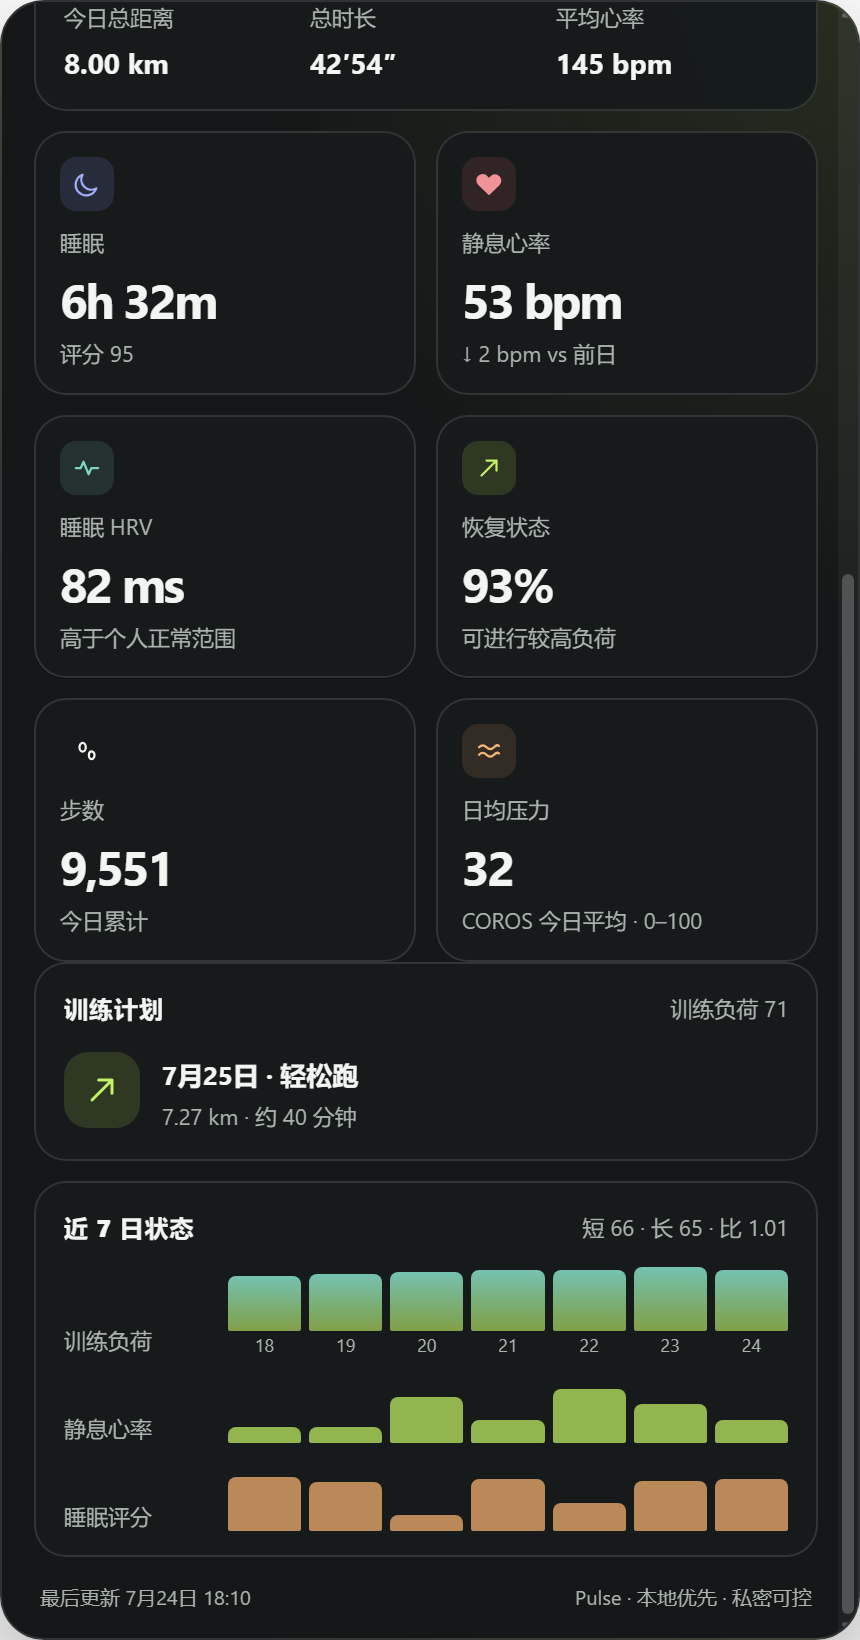
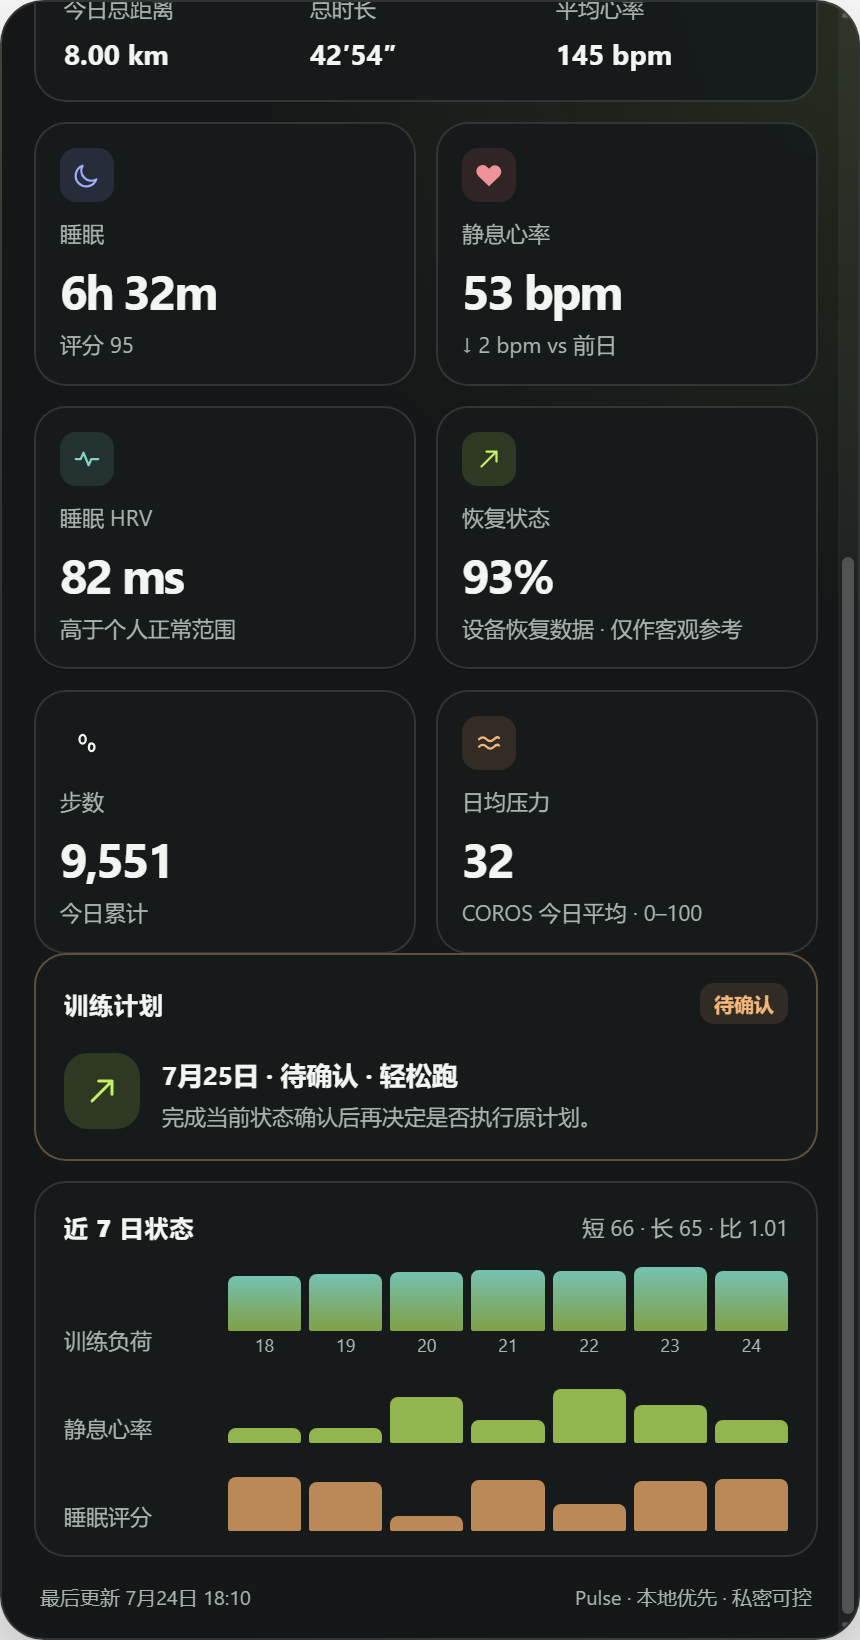
docs: explain readiness safety behavior

diff --git a/docs/DEVELOPMENT_STATUS.md b/docs/DEVELOPMENT_STATUS.md
@@ -1,8 +1,8 @@
 # Pulse 研发进度
 
-更新时间：2026-08-09
+更新时间：2026-08-10
 
-当前公开版本：桌面端与 Codex 插件 v0.5.5 Beta；当前源码：v0.5.6 候选，按堆叠 Draft PR 审查，尚未合并或发布
+当前公开版本：桌面端与 Codex 插件 v0.5.5 Beta；当前源码：v0.5.6 候选。PR A“训练安全呈现”已在 `codex/pr-a-training-safety` 实现并完成本地验证，尚未合并或发布
 
 ## 当前目标
 
@@ -16,10 +16,10 @@
 | 数据基础 | 标准化快照、`DataSourceAdapter`、连接测试、超时、响应大小限制、同源缓存与离线回退已完成；首次同步前不会显示 Demo 数字。 |
 | Codex 交接 | Electron 在本机启动 Handoff；`pulse-dashboard` 插件发布完整快照后，桌面窗口会立即自动读取。 |
 | 数据源 | 可切换演示数据、Codex + COROS MCP 和自定义 HTTP Bridge。 |
-| 数据质量 | 睡眠、心率、HRV、日均压力、步数、恢复等至少两项健康信号，以及有效洞察、活动正时长、UTF-8、时间戳/日期和集合上限，成为覆盖旧快照前的硬门槛。客观数据可在主观信息缺失时以 `data_insufficient` 展示，但不得给训练强度；疼痛、胸部症状或头晕触发 `stop_refer`。 |
+| 数据质量 | 睡眠、心率、HRV、日均压力、步数、恢复等至少两项健康信号，以及有效洞察、活动正时长、UTF-8、时间戳/日期和集合上限，成为覆盖旧快照前的硬门槛。最终 `readiness` 统一控制洞察、恢复提示和训练计划：`data_insufficient` 只展示客观数据，`stop_refer` 停止训练建议；设备恢复值不能覆盖安全状态。 |
 | 七日负荷 | 近 7 日逐日短期负荷已加入标准快照与桌面图表，同时显示当前短期、长期负荷及比值。 |
 | 指标时效 | 睡眠、静息心率、HRV 等支持独立数据日期；当天尚未归档时显示最近有效值及其日期。 |
-| 验证 | 演示 Bridge、快照、适配器、Codex Handoff、发布脚本、隐私审计、真实 Electron 截图、压力/血氧渲染断言，以及解包版托盘与窗口原生图像检查均纳入本地验证；新增 WCAG AA 核心配色、键盘焦点、长文本和 100%/125%/150% 缩放布局门。 |
+| 验证 | 演示 Bridge、快照、适配器、Codex Handoff、发布脚本、隐私审计、真实 Electron 截图、压力/血氧渲染断言，以及解包版托盘与窗口原生图像检查均纳入本地验证；新增安全呈现纯函数测试、ready/阻断往返与异步洞察竞态测试、`data_insufficient`/`stop_refer` 实窗文字和 ARIA 测试，以及 WCAG AA、长文本和 100%/125%/150% 缩放布局门。 |
 | 分发准备 | Windows 打包配置、应用图标、严格包内容白名单、CI、Issue/PR 模板、合成预览图和发布检查清单已加入；v0.5.5 已加入三种简洁小组件截图，完成隔离目录静默安装/卸载演练，并发布 GitHub Pre-release。 |
 | 供应链 | v0.5.6 候选固定所有 GitHub Actions 提交，加入 npm/Actions Dependabot、PR 依赖审查、SPDX SBOM、SHA-256 和 GitHub 构建/SBOM 证明；GitHub 已开启漏洞告警、安全更新、私密漏洞报告及 `main` 分支保护。 |
 | 产品边界 | Pulse 不开发 COROS OAuth、Token 管理或供应商 API 直连；这些职责属于 LLM Host。 |
@@ -32,15 +32,15 @@
 
 ## 当前 P0
 
-2026-07-28 已重新读取真实 COROS 健康、睡眠、心率、HRV、恢复、活动、计划和七日负荷，并成功发布到桌面。真实截图显示血氧长期不可用，因此 v0.5.4 将该位置改为优先展示 COROS 日均压力，更贴合长期伏案人群；无压力数据时仍回退血氧。v0.5.5 在此闭环基础上增加三种简洁小组件比例和公开示例截图。
+2026-07-28 已重新读取真实 COROS 健康、睡眠、心率、HRV、恢复、活动、计划和七日负荷，并成功发布到桌面。真实截图显示血氧长期不可用，因此 v0.5.4 将该位置改为优先展示 COROS 日均压力；无压力数据时仍回退血氧。v0.5.5 增加三种简洁小组件比例。当前 PR A 进一步确保主观安全确认不足或触发停止路径时，高设备恢复值和原始模型文字不能被误读为训练许可。
 
 ## 下一步
 
-1. 在新 Codex 任务中加载公开 `pulse-dashboard` 插件 v0.5.5 工作流。
-2. 在另一台测试机执行交互式安装 / 升级 / 卸载；本机已完成隔离静默安装/卸载，并实际确认任务栏显示 Pulse 图标。
-3. 用连续多日真实 COROS 数据复测训练、健康、计划和七日负荷字段。
-4. 在另一台 Windows 设备完成安装、升级、卸载和实际系统 DPI 目视复测；仓库内自动化已覆盖 100%、125% 和 150% 渲染比例。
-5. 仅在 PR #6–#10 按顺序审查合并后运行手动 Release Candidate；未完成代码签名前继续标记为 unsigned beta。
+1. 审查 PR A 的安全呈现、合成截图和公开说明；合并与发布仍需单独授权。
+2. 在后续 PR B 处理逐项指标新鲜度和来源呈现，不与 PR A 混合。
+3. 在另一台测试机执行交互式安装 / 升级 / 卸载；本机已完成隔离静默安装/卸载，并实际确认任务栏显示 Pulse 图标。
+4. 用连续多日真实 COROS 数据复测训练、健康、计划和七日负荷字段。
+5. 在另一台 Windows 设备完成安装、升级、卸载和系统 DPI 目视复测；未完成代码签名前继续标记为 unsigned beta。
 
 ## 相关文档
 
@@ -56,5 +56,6 @@
 - [v0.5.5 简洁小组件发布说明](RELEASE_NOTES_V0.5.5_BETA.md)
 - [v0.5.5 发布候选审计](V0.5.5_RELEASE_AUDIT.md)
 - [v0.5.6 候选变化](RELEASE_NOTES_V0.5.6_CANDIDATE.md)
+- [PR A 训练安全呈现设计](superpowers/specs/2026-08-10-pulse-training-safety-presentation-design.md)
 - [供应链与发布产物](SUPPLY_CHAIN.md)
 - [原始需求追踪矩阵](REQUIREMENTS_TRACEABILITY.md)

diff --git a/docs/REQUIREMENTS_TRACEABILITY.md b/docs/REQUIREMENTS_TRACEABILITY.md
@@ -1,6 +1,6 @@
 # Pulse 原始需求追踪矩阵
 
-更新时间：2026-08-09
+更新时间：2026-08-10
 
 本文件将最初 PRD、V0.3 工程建议、V0.4 计划和最终采用的 V0.5 Plugin 路线映射到当前实现。V0.5 是有效架构基线：COROS 授权和工具调用属于 LLM Host，Pulse Desktop 不自行实现 OAuth 或供应商 API。
 
@@ -19,7 +19,7 @@
 | 数据必须出现在桌面，而不是只留在对话文字中 | 已完成 | 插件发布标准快照到 `127.0.0.1:19091`；Handoff 的 `snapshot-updated` 事件通知 Electron 立即重读。 |
 | 展示身体状态、今日训练和训练计划 | 已完成 | `src/snapshot.js` 归一化健康、活动和计划；真实 Electron 渲染测试覆盖训练、健康与计划卡片。 |
 | 展示最近一周负荷 | 已完成 | `trends.trainingLoad` 保留最多七个逐日点；演示夹具和校验器要求七个点，真实快照也已验证七日数据。 |
-| 生成每日 AI 训练洞察 | 已完成 | 洞察由 Codex 基于同一次 MCP 查询生成并随快照发布；Handoff 要求非占位洞察，桌面显示训练参考免责声明。 |
+| 生成每日 AI 训练洞察 | 已完成 | 洞察由 Codex 基于同一次 MCP 查询生成并随快照发布；`src/safety-presentation.js` 根据最终 `readiness` 决定透传或固定覆盖，阻断状态不会显示原始训练强度文字。 |
 | 缺失数据不能伪造成 0 或 Demo | 已完成 | 归一化把非法占位值变为 `null`；质量门拒绝零时长活动；Codex/Bridge 无同源缓存时显示 `unavailable` 空快照，绝不回退合成健康数字。 |
 | 离线时保留上一次成功数据 | 已完成 | 仅复用相同 provider 的快照缓存；跨数据源缓存不会被改名后冒充当前数据。 |
 | 无感刷新 | 部分完成 | 新快照发布后桌面即时自动读取，按钮和托盘均明确为“读取最新同步”；Electron 不能继承 Codex MCP 权限，因此首次/新数据查询仍需发生在 Codex 任务中。 |
@@ -34,7 +34,7 @@
 | F-04 健康卡片 | 已完成 | 指标卡、独立数据日期和缺失占位可用；日均压力优先，缺失时回退血氧。 |
 | F-05 今日训练 | 已完成 | 支持零次或多次活动列表及距离、时长、配速、心率、卡路里汇总；折叠交互列为后续。 |
 | F-06 今日课表 | 已完成 | 保留实际 `plan.date`，可区分明确休息日、无计划与最近下一课。 |
-| F-07/F-08 AI 洞察与重生成 | 架构调整后完成 | Codex 负责重新查询与生成；桌面“读取最新”不会伪装成一次新的模型调用。 |
+| F-07/F-08 AI 洞察与重生成 | 架构调整后完成 | Codex 负责重新查询与生成；桌面“读取最新”不会伪装成一次新的模型调用。洞察成功或失败的异步回调必须重新经过最新安全状态，不能覆盖较新的 `data_insufficient` 或 `stop_refer` 呈现。 |
 | F-09 窗口形态 | 已完成 | 无边框、圆角、拖动、缩放、置顶和透明背景；完整模式记忆窗口位置/尺寸，并将恢复结果限制在当前显示器工作区。 |
 | F-10 主题、透明度、精简模式 | 已完成 | 深色、浅色、跟随系统、40%–100% 背景层透明度、完整看板和 16:9/4:3/21:9 简洁小组件模式；文字与控件不会随背景一起变淡。 |
 | F-11 系统托盘 | 已完成 | 显示/隐藏、读取最新同步、设置、退出；已验证安装后托盘和任务栏 Pulse 图标。 |
@@ -48,6 +48,7 @@
 | CPU ≤ 1% | 已完成 | v0.5.5 发布候选 5 秒采样约占 0.31% 单核（整机约 0.022%）。 |
 | 内存 ≤ 150 MB | 后续 | Electron 四进程本机实测约 404 MB，已在发布清单披露；真实链路稳定前不迁移框架。 |
 | 失败优雅降级 | 已完成 | 超时、响应上限、JSON 校验、同源缓存和无缓存空状态均有覆盖。 |
+| 训练安全呈现 | PR A 候选已完成 | `src/safety-presentation.js` 提供单一确定性策略；`scripts/test-safety-presentation.js` 覆盖 ready、阻断、畸形和原型继承输入；`scripts/test-renderer-safety.js` 覆盖状态往返与异步竞态；`scripts/test-safety-states.js` 在真实 Electron 中验证文字、计划状态、ARIA 和非敏感规则 ID。 |
 | 凭据与隐私 | 已完成 | Desktop 不保存 COROS 凭据；Handoff 仅回环监听，拒绝浏览器来源写入，公开审计排除坐标、ID、FIT、Token 和真实快照。 |
 | Windows 10/11 x64 | 已完成/外部验证 | Windows 11 已完成打包、安装、卸载、托盘和任务栏验收；另一台 Windows 测试机仍待验证。 |
 | macOS | 后续 | V0.5 Beta 仅发布 Windows；签名与 DMG 延后。 |
@@ -64,4 +65,4 @@
 
 ## 当前发布阻塞项
 
-代码侧没有已知 P0。GitHub v0.5.5 Beta 已发布；后续只需在新的 Codex 任务中实际触发已安装的 v0.5.5 skill，并在另一台 Windows 设备完成交互式安装与 DPI 复测。
+代码侧没有已知 P0。GitHub v0.5.5 Beta 已发布；PR A 目前只在功能分支实现，尚未合并或发布。后续仍需审查 PR A、在 PR B 处理逐项新鲜度/来源呈现，并在另一台 Windows 设备完成交互式安装与 DPI 复测。

diff --git a/README.md b/README.md
@@ -12,11 +12,11 @@ Pulse 是一个由 Codex 宿主驱动的 Windows 健康与训练桌面看板。C
   <tr>
     <td width="50%">
       <img src="docs/assets/pulse-dashboard-v0.5.6-demo.png" alt="Pulse v0.5.6 候选总览，合成演示数据">
-      <br><sub>桌面总览：今日训练与主要健康指标</sub>
+      <br><sub>安全覆盖后的桌面总览：高设备恢复值不等于训练许可</sub>
     </td>
     <td width="50%">
       <img src="docs/assets/pulse-dashboard-health-load-demo.png" alt="Pulse 健康和七日训练负荷，合成演示数据">
-      <br><sub>健康、训练计划与最近七日训练负荷</sub>
+      <br><sub>安全覆盖后的健康、待确认训练计划与最近七日训练负荷</sub>
     </td>
   </tr>
   <tr>
@@ -26,6 +26,8 @@ Pulse 是一个由 Codex 宿主驱动的 Windows 健康与训练桌面看板。C
     </td>
   </tr>
 </table>
+
+演示快照故意同时包含较高的设备恢复等级和不完整的主观安全确认。界面保留 93% 这个客观设备数值，但会将恢复说明改为“仅作客观参考”，隐藏训练负荷与执行性计划详情，并显示“待确认”，用于验证安全覆盖确实生效。
 
 ### 简洁小组件模式
 
@@ -44,7 +46,7 @@ Pulse 是一个由 Codex 宿主驱动的 Windows 健康与训练桌面看板。C
 - 展示睡眠时长与评分、静息心率、睡眠 HRV、恢复状态、步数、日均压力等指标；旧格式快照没有压力字段时兼容显示血氧。
 - 展示今日训练的距离、时长、配速、平均心率、热量，以及当天或下一次训练计划。
 - 展示当前短期/长期训练负荷、负荷比值和最近七日逐日趋势。
-- 由 Codex 综合至少两个有效健康信号、训练完成情况和计划，生成简洁的 AI 今日洞察。
+- 由 Codex 综合至少两个有效健康信号、训练完成情况和计划，生成简洁的 AI 今日洞察；只有最终安全状态为 `ready` 时才透传训练执行建议。
 - 提供无边框圆角窗口、拖动、置顶、背景层透明度、深浅主题、紧凑模式、托盘和开机启动选项；完整模式会记住窗口位置和尺寸，并在显示器工作区内恢复。
 - 提供简洁小组件模式：以 16:9（360×203）、4:3（360×270）或 21:9（420×180）横版小窗，只显示步数、当天已记录活动消耗、静息心率和睡眠时长。
 - 在 Bridge 暂时不可用时保留同一数据来源的最后一份完整快照；不完整数据、零时长跑步和明显乱码不会覆盖旧快照。
@@ -58,6 +60,12 @@ Pulse 是一个由 Codex 宿主驱动的 Windows 健康与训练桌面看板。C
 - **不是实时监护设备**：显示的是最近一次成功生成的快照，不是连续生命体征流。
 - **不是医疗工具**：AI 洞察仅供训练参考，不构成诊断、治疗或医疗建议。
 - **不是 COROS 官方产品**：COROS 名称及相关商标归其权利人所有。
+
+### 训练建议的安全边界
+
+Pulse 将设备恢复值、HRV、负荷比和其他可穿戴指标视为参考输入，而不是训练许可或医疗判断。只有可信、当前、完整的快照通过主观安全确认时，界面才会显示训练执行建议；`data_insufficient` 会隐藏强度、训练负荷和执行性计划详情，`stop_refer` 会停止训练建议，并在症状持续或加重时提示寻求适当的专业评估。
+
+最终 `readiness` 状态统一控制 AI 洞察、恢复提示和训练计划。未知或畸形状态默认按 `data_insufficient` 处理；重新生成洞察的成功或失败回调也不能覆盖较新的安全状态。客观指标和已经完成的活动仍可见，但不代表已经获得训练许可。
 
 ## 数据如何更新
 
@@ -131,7 +139,7 @@ codex plugin add pulse-dashboard@pulse-dashboard
 - Electron 会话默认拒绝权限请求；Preload 不向页面暴露 IPC 事件对象，打包版关闭 Node/调试环境入口并强制 ASAR 完整性。
 - Pulse 不保存 COROS 密码、Token、Cookie、原始 MCP 响应、活动内部 ID 或坐标。
 - 公开仓库只提交合成快照和空状态截图；`.fit`、GPX/TCX/KML、运行缓存、私有配置和训练计划目录均被排除并接受自动审计。
-- 快照发布前至少需要两个有效健康信号；有距离的活动必须有正时长。AI 洞察若生成失败会显示为空缺，但不会阻断已通过校验的客观数据更新。
+- 快照发布前至少需要两个有效健康信号；有距离的活动必须有正时长。AI 洞察若生成失败会在独立状态栏提示，不会覆盖安全提示，也不会阻断已通过校验的客观数据更新。
 - 新快照必须具有有效且不过期的时间戳和显式 `readiness`；看板会显示数据覆盖与建议可信度，主观安全输入不完整时不得给训练强度。
 - 静态快照使用 Windows 系统加密，但无法抵御已经控制当前 Windows 账户或读取进程内存的恶意软件。
 

diff --git a/docs/RELEASE_NOTES_V0.5.6_CANDIDATE.md b/docs/RELEASE_NOTES_V0.5.6_CANDIDATE.md
@@ -1,6 +1,6 @@
 # Pulse v0.5.6 Candidate Notes
 
-状态：未发布候选。本文记录 Draft PR #6–#10 的累计变化，不代表这些改动已经进入 `main`、生成安装包或发布 GitHub Release。
+状态：未发布候选。PR #6–#10 已进入 `main`；下述 PR A 训练安全呈现仍只存在于功能分支，不代表已经合并、生成安装包或发布 GitHub Release。
 
 ## 主要变化
 
@@ -11,6 +11,14 @@
 - 深浅主题采用更清晰的对比度与 SVG 图标，恢复键盘焦点和状态播报；透明度只作用于背景层。
 - 完整窗口记忆并纠正位置/尺寸；16:9、4:3、21:9 小组件重新调整字号、对齐和留白。
 - CI 增加 100%/125%/150% 实窗布局、浅色长文本、依赖变更、工作流固定、SBOM、SHA-256 和构建证明门。
+
+## PR A：训练安全呈现（尚未合并）
+
+- 新增确定性的安全呈现层，让最终 `readiness` 成为 AI 洞察、恢复提示和训练计划中许可类文字的唯一权威。
+- `data_insufficient` 保留客观设备数值，但隐藏训练负荷和执行性计划详情；`stop_refer` 停止训练建议。未知或畸形状态默认按数据不足处理。
+- 设备显示较高恢复值时也不能覆盖主观安全门；演示截图故意保留这一矛盾组合，用于验证中性提示和“待确认”状态。
+- 洞察生成的成功或失败回调会重新应用最新安全状态，操作错误显示在独立状态栏，不能覆盖阻断提示。
+- 新增纯策略、原型继承防护、状态往返、异步竞态，以及真实 Electron 文字/ARIA/规则 ID 回归测试。测试只使用合成数据。
 
 ## 仍然存在的限制
 
